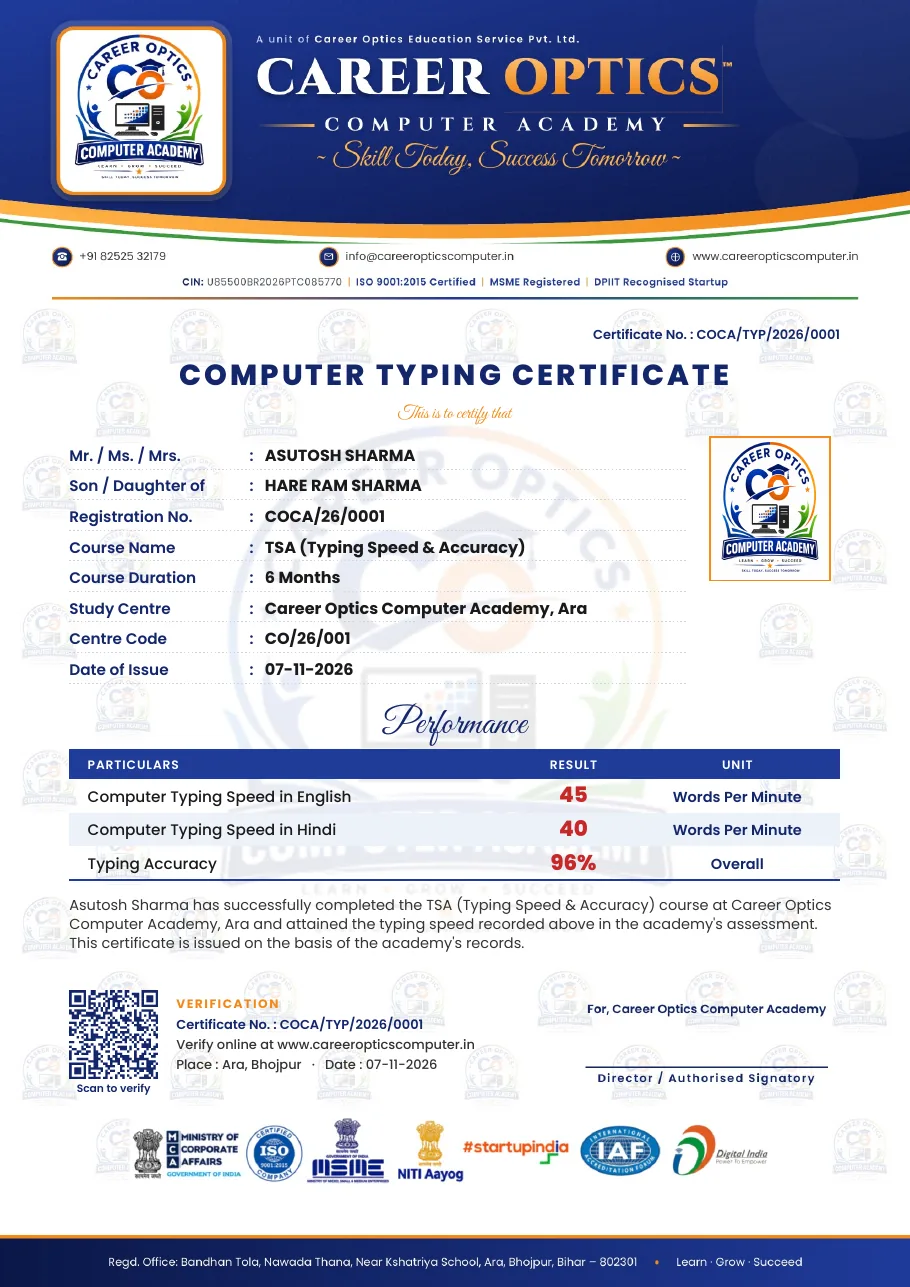
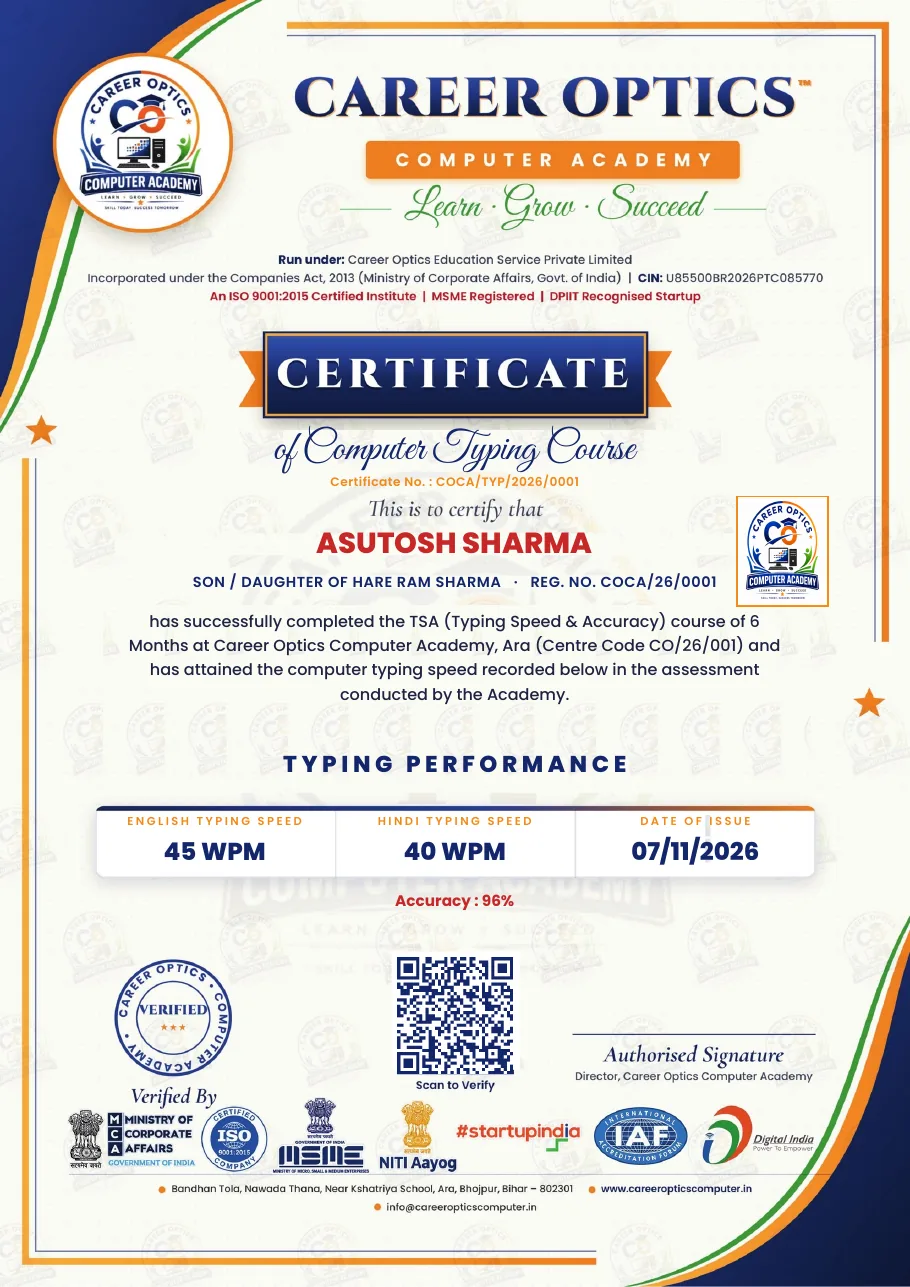
Set the typing certificate on the certificate artwork
The typing certificate now shares the franchise licence's certificate
design (public/documents/typing-certificate.jpg, the same artwork with
the licence's wording lifted): the student's name and registration where
the centre name went, a centred statement, the three boxes carrying the
English and Hindi speeds and the date of issue, accuracy beneath, and the
photograph beside the name. The gallery sample is re-rendered.

diff --git a/organization/src/lib/brand/brandDocuments.ts b/organization/src/lib/brand/brandDocuments.ts
@@ -740,94 +740,52 @@ export interface TypingCertificate {
 }
 
 /**
- * The computer typing certificate: a typing-speed course's completion, with
- * the student's speed in English and Hindi, on the academy's letterhead.
+ * The computer typing certificate, on the certificate artwork the licence
+ * uses (typing-certificate.jpg: the same design with the licence's wording
+ * lifted). The student's name sits where the centre name goes, the three
+ * boxes carry the typing speeds, and the QR opens the verification page.
  */
 export async function drawTypingCertificate(doc: jsPDF, t: TypingCertificate) {
   await registerBrandFonts(doc, ["Poppins-Regular", "Poppins-Medium", "Poppins-SemiBold", "Poppins-Bold", "Poppins-ExtraBold", "GreatVibes-Regular"]);
-  await background(doc, "letterhead.jpg", MS.w, MS.h);
-  const left = 45.4;
-  const right = 549.9;
+  await background(doc, "typing-certificate.jpg", LIC.w, LIC.h);
 
-  put(doc, `Certificate No. : ${t.certificateNo}`, { x: right, y: 222, size: 8.5, font: "Poppins-SemiBold", color: NAVY, align: "right" });
-  put(doc, "COMPUTER TYPING CERTIFICATE", { x: MS.w / 2, y: 252, size: 19, font: "Poppins-ExtraBold", color: NAVY, align: "center", charSpace: 2 });
-  put(doc, "This is to certify that", { x: MS.w / 2, y: 274, size: 12, font: "GreatVibes-Regular", color: ORANGE, align: "center" });
+  put(doc, "of Computer Typing Course", { x: lx(0.5), y: ly(0.357), size: 27, font: "GreatVibes-Regular", color: NAVY, align: "center" });
+  put(doc, `Certificate No. : ${t.certificateNo}`, { x: lx(0.5), y: ly(0.378), size: 8, font: "Poppins-SemiBold", color: ORANGE, align: "center", charSpace: 0.3 });
 
-  // Photograph, right
+  // Photograph, right of the name
   doc.setDrawColor(...rgb(ORANGE));
   doc.setLineWidth(pt(1.2));
-  doc.rect(pt(465), pt(286), pt(78), pt(94));
-  if (!picture(doc, t.photo, 466, 287, 76, 92)) put(doc, "Photograph", { x: 504, y: 336, size: 8, font: "Poppins-Regular", color: "#8a8fa5", align: "center" });
+  doc.rect(pt(lx(0.81)), pt(ly(0.386)), pt(lx(0.1)), pt(ly(0.085)));
+  if (!picture(doc, t.photo, lx(0.81) + 1, ly(0.386) + 1, lx(0.1) - 2, ly(0.085) - 2)) put(doc, "Photo", { x: lx(0.86), y: ly(0.432), size: 7.5, font: "Poppins-Regular", color: "#8a8fa5", align: "center" });
 
-  // Particulars, dotted lines as the design's forms have
-  const rows: Array<[string, string]> = [
-    ["Mr. / Ms. / Mrs.", t.name.toUpperCase()],
-    ["Son / Daughter of", (t.fatherName || "").toUpperCase()],
-    ["Registration No.", t.registrationNo],
-    ["Course Name", t.course],
-    ["Course Duration", t.duration],
-    ["Study Centre", t.centre],
-    ["Centre Code", t.centreCode || ""],
-    ["Date of Issue", ddmmyyyy(t.issueDate)],
-  ].filter(([, v]) => v) as Array<[string, string]>;
-  let y = 302;
-  for (const [label, value] of rows) {
-    put(doc, label, { x: left, y, size: 10, font: "Poppins-SemiBold", color: NAVY });
-    put(doc, ":", { x: left + 118, y, size: 10, font: "Poppins-SemiBold", color: NAVY });
-    put(doc, value, { x: left + 128, y, size: 10.5, font: "Poppins-Bold", color: "#1a1a1a", maxWidth: 280 });
-    doc.setDrawColor(205, 212, 230);
-    doc.setLineWidth(pt(0.5));
-    doc.setLineDashPattern([pt(1), pt(1.5)], 0);
-    doc.line(pt(left), pt(y + 5), pt(left + 405), pt(y + 5));
-    doc.setLineDashPattern([], 0);
-    y += 20;
+  put(doc, t.name.toUpperCase(), { x: lx(0.5), y: ly(0.4306), size: 19, font: "Poppins-ExtraBold", color: RED, align: "center", maxWidth: lx(0.58) });
+  const parent = t.fatherName ? `SON / DAUGHTER OF ${t.fatherName.toUpperCase()}` : "";
+  put(doc, [parent, `REG. NO. ${t.registrationNo}`].filter(Boolean).join("   ·   "), { x: lx(0.5), y: ly(0.4564), size: 9.5, font: "Poppins-SemiBold", color: NAVY, align: "center", maxWidth: lx(0.6), charSpace: 0.4 });
+
+  // The statement, centred over three lines where the licence's wording was
+  const statement = `has successfully completed the ${t.course} course of ${t.duration ? `${t.duration} ` : ""}at ${t.centre}${t.centreCode ? ` (Centre Code ${t.centreCode})` : ""} and has attained the computer typing speed recorded below in the assessment conducted by the Academy.`;
+  doc.setFont(fontOn(doc, "Poppins-Medium"), "normal");
+  doc.setFontSize(10.5);
+  const lines = doc.splitTextToSize(statement, pt(lx(0.74))) as string[];
+  lines.slice(0, 4).forEach((line, k) => put(doc, line, { x: lx(0.5), y: ly(0.4875) + k * 16, size: 10.5, font: "Poppins-Medium", color: "#1f2340", align: "center" }));
+
+  put(doc, "TYPING PERFORMANCE", { x: lx(0.5), y: ly(0.6009), size: 15, font: "Poppins-ExtraBold", color: NAVY, align: "center", charSpace: 3 });
+
+  // The three boxes: label on the band row, value below
+  const cell = (label: string, value: string, centre: number) => {
+    put(doc, label, { x: lx(centre), y: ly(0.6415), size: 7.5, font: "Poppins-SemiBold", color: ORANGE, align: "center", charSpace: 1.6 });
+    put(doc, value, { x: lx(centre), y: ly(0.6689), size: 16, font: "Poppins-ExtraBold", color: NAVY, align: "center", maxWidth: lx(0.2) });
+  };
+  const wpm = (v: number | string | undefined) => (v === undefined || v === "" ? "—" : `${v} WPM`);
+  cell("ENGLISH TYPING SPEED", wpm(t.englishWpm), 0.236);
+  cell("HINDI TYPING SPEED", wpm(t.hindiWpm), 0.5);
+  cell("DATE OF ISSUE", ddmmyyyy(t.issueDate).replace(/-/g, "/"), 0.7646);
+  if (t.accuracy !== undefined && t.accuracy !== "") {
+    put(doc, `Accuracy : ${`${t.accuracy}`.replace(/%?$/, "%")}`, { x: lx(0.5), y: ly(0.705), size: 10, font: "Poppins-Bold", color: RED, align: "center" });
   }
 
-  // Performance: a full-width table with a navy header, one language a row.
-  y = Math.max(y + 12, 480);
-  put(doc, "Performance", { x: MS.w / 2, y, size: 24, font: "GreatVibes-Regular", color: NAVY, align: "center" });
-  y += 10;
-  const perf: Array<[string, string, string]> = [];
-  if (t.englishWpm !== undefined && t.englishWpm !== "") perf.push(["Computer Typing Speed in English", `${t.englishWpm}`, "Words Per Minute"]);
-  if (t.hindiWpm !== undefined && t.hindiWpm !== "") perf.push(["Computer Typing Speed in Hindi", `${t.hindiWpm}`, "Words Per Minute"]);
-  if (t.accuracy !== undefined && t.accuracy !== "") perf.push(["Typing Accuracy", `${t.accuracy}`.replace(/%?$/, "%"), "Overall"]);
-  const cols = [left, left + 290, left + 370, right];
-  doc.setFillColor(...rgb("#1f3a99"));
-  doc.rect(pt(cols[0]), pt(y), pt(right - left), pt(20), "F");
-  put(doc, "PARTICULARS", { x: cols[0] + 12, y: y + 13.5, size: 8, font: "Poppins-SemiBold", color: "#ffffff", charSpace: 0.6 });
-  put(doc, "RESULT", { x: (cols[1] + cols[2]) / 2, y: y + 13.5, size: 8, font: "Poppins-SemiBold", color: "#ffffff", align: "center", charSpace: 0.6 });
-  put(doc, "UNIT", { x: (cols[2] + cols[3]) / 2, y: y + 13.5, size: 8, font: "Poppins-SemiBold", color: "#ffffff", align: "center", charSpace: 0.6 });
-  y += 20;
-  perf.forEach(([label, value, unit], i) => {
-    if (i % 2) {
-      doc.setFillColor(238, 241, 249);
-      doc.rect(pt(cols[0]), pt(y), pt(right - left), pt(22), "F");
-    }
-    put(doc, label, { x: cols[0] + 12, y: y + 15, size: 10, font: "Poppins-Medium", color: "#1a1a1a" });
-    put(doc, value, { x: (cols[1] + cols[2]) / 2, y: y + 15.5, size: 14, font: "Poppins-ExtraBold", color: RED, align: "center" });
-    put(doc, unit, { x: (cols[2] + cols[3]) / 2, y: y + 15, size: 9.5, font: "Poppins-SemiBold", color: NAVY, align: "center" });
-    y += 22;
-  });
-  doc.setDrawColor(...rgb("#1f3a99"));
-  doc.setLineWidth(pt(0.8));
-  doc.line(pt(left), pt(y), pt(right), pt(y));
-
-  // The statement, then the verification block beside the QR bottom-left,
-  // level with the letterhead's authorised signatory on the right.
-  y += 20;
-  doc.setFont(fontOn(doc, "Poppins-Regular"), "normal");
-  doc.setFontSize(9.5);
-  const note = `${t.name} has successfully completed the ${t.course} course at ${t.centre} and attained the typing speed recorded above in the academy's assessment. This certificate is issued on the basis of the academy's records.`;
-  const wrapped = doc.splitTextToSize(note, pt(right - left)) as string[];
-  wrapped.slice(0, 3).forEach((w, i) => put(doc, w, { x: left, y: y + i * 12.5, size: 9.5, font: "Poppins-Regular", color: "#333333" }));
-
-  const code = await qr(verifyUrl(t.certificateNo, "certificate"), 300);
-  picture(doc, code, left, 648, 58, 58);
-  put(doc, "Scan to verify", { x: left + 29, y: 715, size: 7, font: "Poppins-SemiBold", color: NAVY, align: "center" });
-  put(doc, "VERIFICATION", { x: left + 70, y: 660, size: 8, font: "Poppins-Bold", color: ORANGE, charSpace: 1 });
-  put(doc, `Certificate No. : ${t.certificateNo}`, { x: left + 70, y: 674, size: 8.5, font: "Poppins-SemiBold", color: NAVY });
-  put(doc, "Verify online at www.careeropticscomputer.in", { x: left + 70, y: 687, size: 8.5, font: "Poppins-Medium", color: "#333333" });
-  put(doc, `Place : Ara, Bhojpur   ·   Date : ${ddmmyyyy(t.issueDate)}`, { x: left + 70, y: 700, size: 8.5, font: "Poppins-Medium", color: "#333333" });
+  const code = await qr(verifyUrl(t.certificateNo, "certificate"));
+  picture(doc, code, lx(0.437), ly(0.7445), lx(0.127), lx(0.127));
 }
 
 export async function typingCertificatesPdf(items: TypingCertificate[], fileName = "typing-certificate") {
